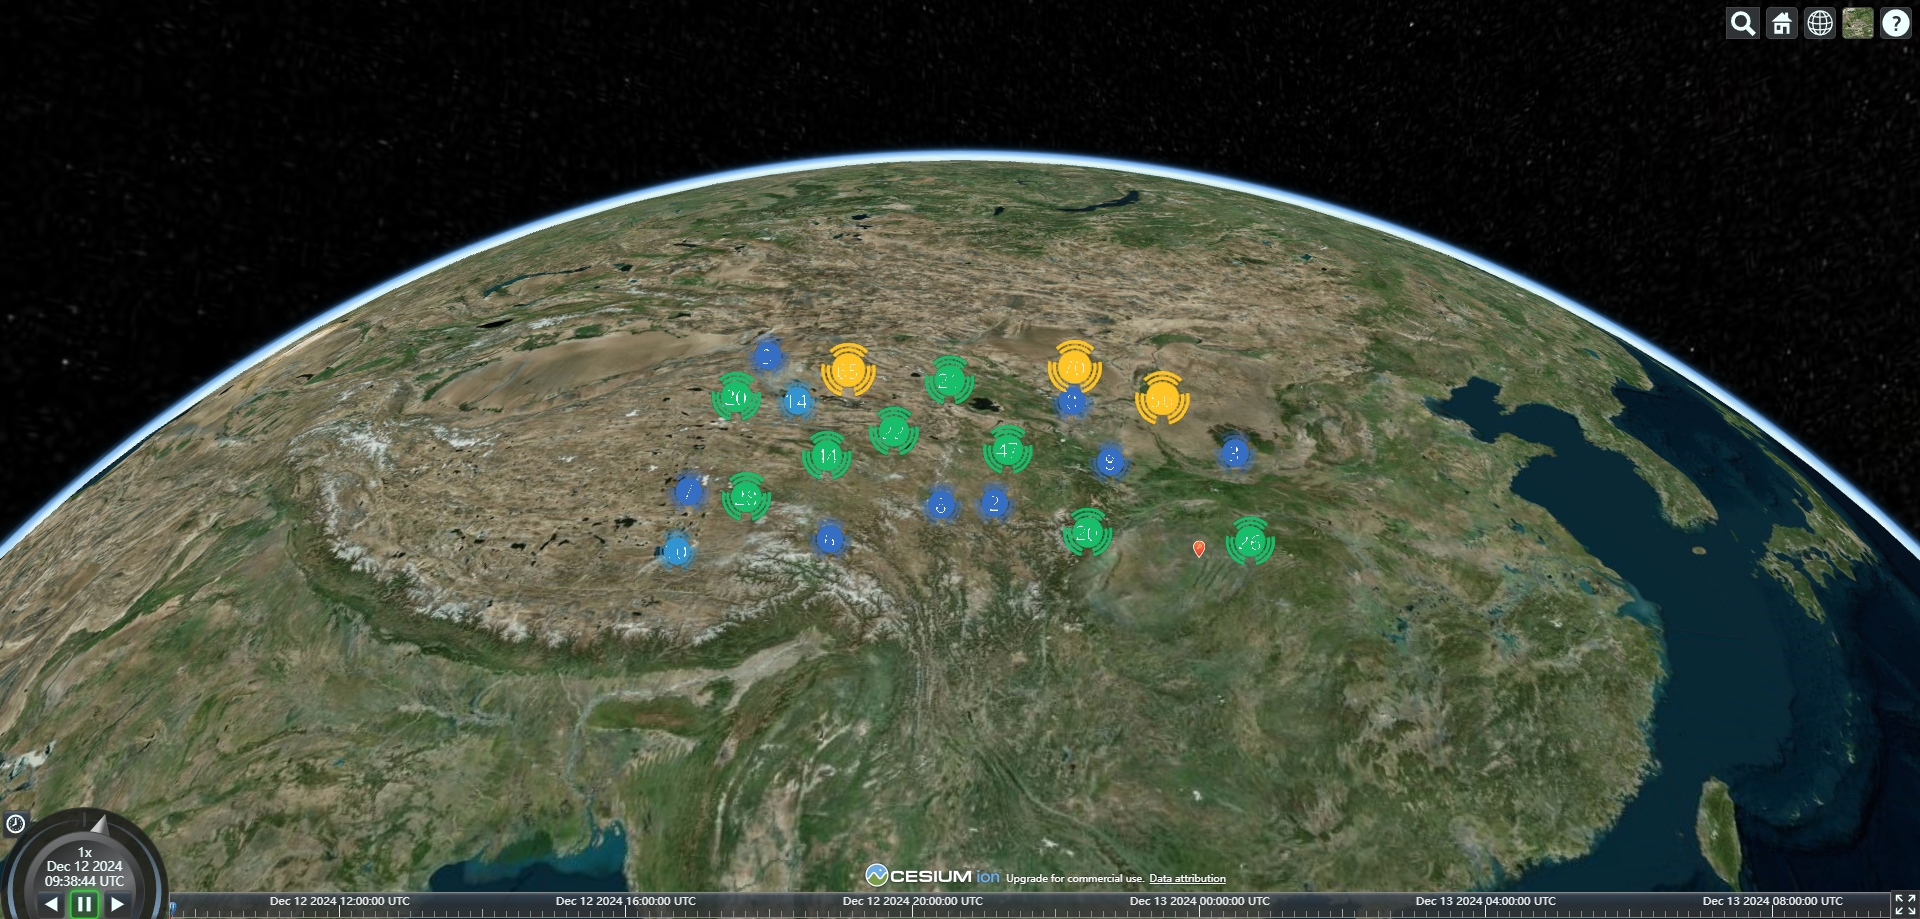
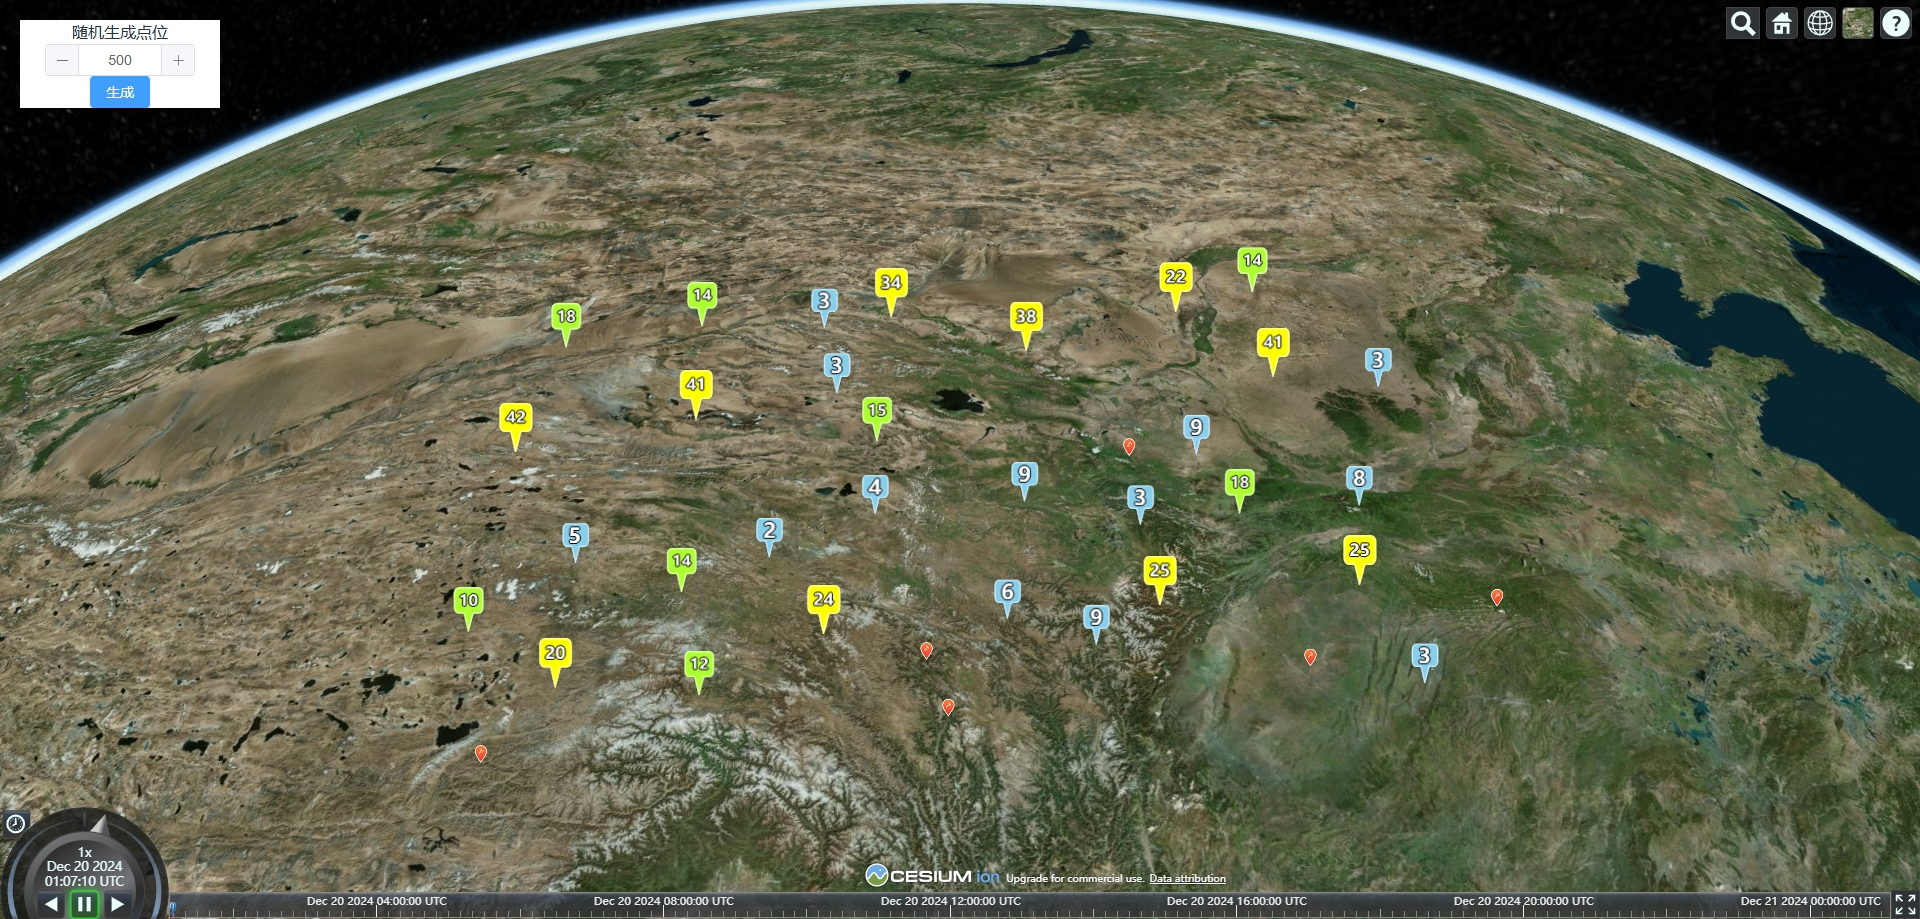
feat： entity聚合效果1和聚合效果2

diff --git a/src/views/example/billboard/billboardCluster.vue b/src/views/example/billboard/billboardCluster.vue
@@ -50,48 +50,37 @@ const combineListener = () => {
   dataSource.value.clustering.enabled = true;
   dataSource.value.clustering.pixelRange = 40;
   dataSource.value.clustering.minimumClusterSize = 2;
+  const pinBuilder = new Cesium.PinBuilder()
 
   dataSource.value.clustering.clusterEvent.addEventListener(function (
     clusteredEntities: Cesium.Entity[],
     cluster: Cesium.Entity | any
   ) {
-    // 关闭自带的显示聚合数量的标签
-    cluster.label.show = true;
-    cluster.label.horizontalOrigin = Cesium.HorizontalOrigin.CENTER;
-    cluster.label.pixelOffset = new Cesium.Cartesian2(0, 8);
-    cluster.label.font = '20px sans-serif'
-    cluster.label.style = Cesium.LabelStyle.FILL_AND_OUTLINE;
-    // cluster.label.heightReference = Cesium.HeightReference.CLAMP_TO_GROUND
-    cluster.label.disableDepthTestDistance = Number.POSITIVE_INFINITY;
-    cluster.billboard.show = true;
-    cluster.billboard.id = cluster.label.id;
-    cluster.billboard.verticalOrigin = Cesium.VerticalOrigin.CENTER;
-    cluster.billboard.horizontalOrigin = Cesium.HorizontalOrigin.CENTER;
-    cluster.billboard.disableDepthTestDistance = Number.POSITIVE_INFINITY;
-    // cluster.billboard.heightReference = Cesium.HeightReference.CLAMP_TO_GROUND
-
-    // 根据聚合数量的多少设置不同层级的图片以及大小
+    cluster.label.show = false
+    cluster.billboard.show = true
+    cluster.billboard.verticalOrigin = Cesium.VerticalOrigin.BOTTOM
+    
+    let size = clusteredEntities.length;
+    let color = Cesium.Color.RED;
     if (clusteredEntities.length >= 100) {
-      cluster.billboard.image = markList.M5;
-      cluster.billboard.width = 60;
-      cluster.billboard.height = 60;
+      size = 60;
+      color = Cesium.Color.ORANGERED;
     } else if (clusteredEntities.length >= 50) {
-      cluster.billboard.image = markList.M4;
-      cluster.billboard.width = 55;
-      cluster.billboard.height = 55;
+      size = 55;
+      color = Cesium.Color.ORANGE;
     } else if (clusteredEntities.length >= 20) {
-      cluster.billboard.image = markList.M3
-      cluster.billboard.width = 50;
-      cluster.billboard.height = 50;
+      size = 50;
+      color = Cesium.Color.YELLOW;
     } else if (clusteredEntities.length >= 10) {
-      cluster.billboard.image = markList.M2
-      cluster.billboard.width = 45;
-      cluster.billboard.height = 45;
+      size = 45;
+      color = Cesium.Color.GREENYELLOW;
     } else {
-      cluster.billboard.image = markList.M1
-      cluster.billboard.width = 45;
-      cluster.billboard.height = 45;
+      size = 40;
+      color = Cesium.Color.SKYBLUE;
     }
+    let pinImg = pinBuilder.fromText(cluster.label.text, color, size).toDataURL()
+    // 根据聚合数量的多少设置不同层级的图片以及大小
+    cluster.billboard.image = pinImg;
   });
 }
 onMounted(() => {
@@ -110,7 +99,8 @@ onMounted(() => {
   padding: 0;
   overflow: hidden;
 }
-.operation{
+
+.operation {
   position: fixed;
   top: 20px;
   left: 20px;

diff --git a/src/views/example/billboard/billboardCluster2.vue b/src/views/example/billboard/billboardCluster2.vue
@@ -69,36 +69,31 @@ const combineListener = () => {
       cluster.billboard.image = combineIconAndLabel(
         markList.M5,
         clusteredEntities.length,
-        60
       );
     } else if (clusteredEntities.length >= 50) {
       cluster.billboard.image = combineIconAndLabel(
         markList.M4,
         clusteredEntities.length,
-        55
       );
     } else if (clusteredEntities.length >= 20) {
       cluster.billboard.image = combineIconAndLabel(
         markList.M3,
         clusteredEntities.length,
-        50
       );
     } else if (clusteredEntities.length >= 10) {
       cluster.billboard.image = combineIconAndLabel(
         markList.M2,
         clusteredEntities.length,
-        45
       );
     } else {
       cluster.billboard.image = combineIconAndLabel(
         markList.M1,
         clusteredEntities.length,
-        40
       );
     }
   });
 }
-async function combineIconAndLabel(url: string, label: number, size: number): Promise<HTMLCanvasElement> {
+async function combineIconAndLabel(url: string, label: number): Promise<HTMLCanvasElement> {
   // 创建画布对象
   const canvas = document.createElement("canvas");
   canvas.width = 48;
@@ -113,11 +108,11 @@ async function combineIconAndLabel(url: string, label: number, size: number): Pr
 
       // 渲染字体
       ctx.fillStyle = Cesium.Color.WHITE.toCssColorString();
-      ctx.font = "bold 20px Microsoft YaHei";
+      ctx.font = "18px Microsoft YaHei";
       ctx.textAlign = "center";
       ctx.textBaseline = "middle";
       // todo根据文字的长度，动态调整位置
-      ctx.fillText(String(label), size / 2, size / 2);
+      ctx.fillText(String(label), 25, 25);
     }
   } catch (e) {
     console.error("Failed to fetch or draw image:", e);
